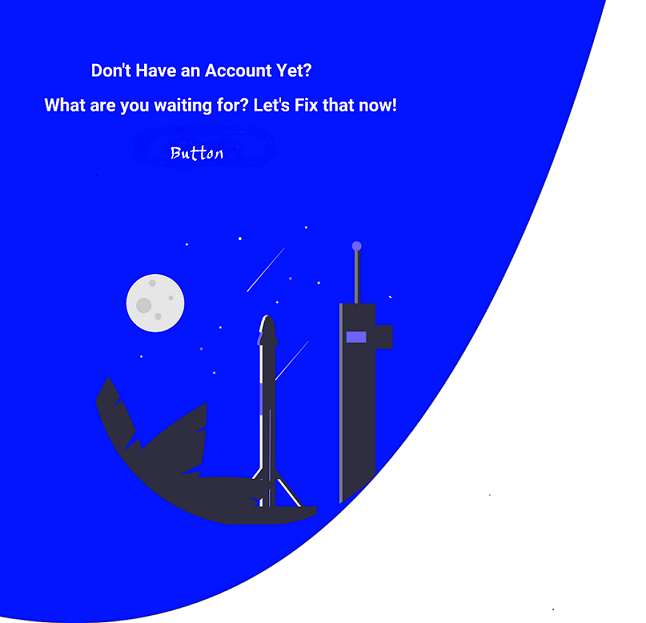
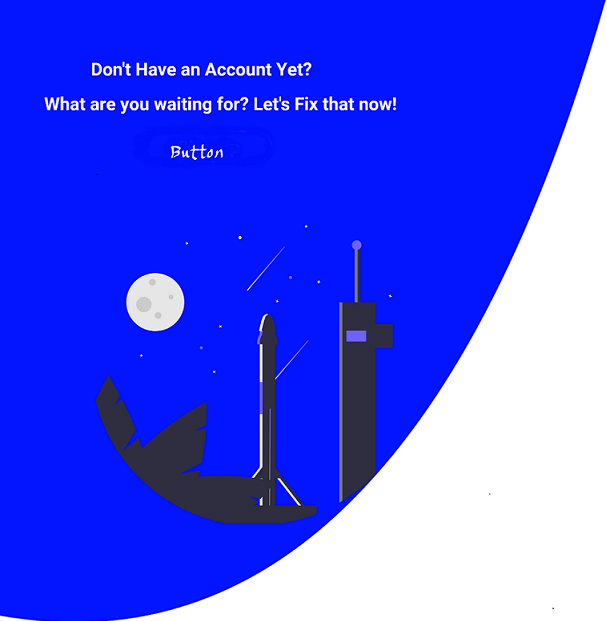
a few changes

diff --git a/index.html b/index.html
@@ -9,18 +9,18 @@
 <link rel="stylesheet" href="https://cdnjs.cloudflare.com/ajax/libs/twitter-bootstrap/5.0.1/css/bootstrap.min.css">
 <link rel="stylesheet" href="https://cdnjs.cloudflare.com/ajax/libs/font-awesome/5.15.3/css/all.min.css">
 <link rel="stylesheet" href="/css/index.css">
-<!-- RENAME THE STYLE SHEET -->
+
 <title>Title</title>
 </head>
 <body>
     <div class="container-lg">
         <div class="row">
-            <div class="col-lg-7">
+            <div class="col-lg-6 offset-1">
                 <img src="/assets/Custompics/CroppedSIBG50hope.png" alt="art">
             </div>
 
             
-            <div class="col-lg-5 d-flex flex-column justify-content-center align-items-center">
+            <div class="col-lg-4 d-flex flex-column justify-content-center align-items-center">
                 
                 
                     <h1 class="mb-4 display-2 "><b>Sign In</b></h1>

diff --git a/signup.html b/signup.html
@@ -15,7 +15,7 @@
 </head>
 <body>
 
-    <div class="container-large">
+    <div class="container-lg">
         <div class="row">
             
             <div class="col-md-4 d-flex flex-column justify-content-center align-items-center">
